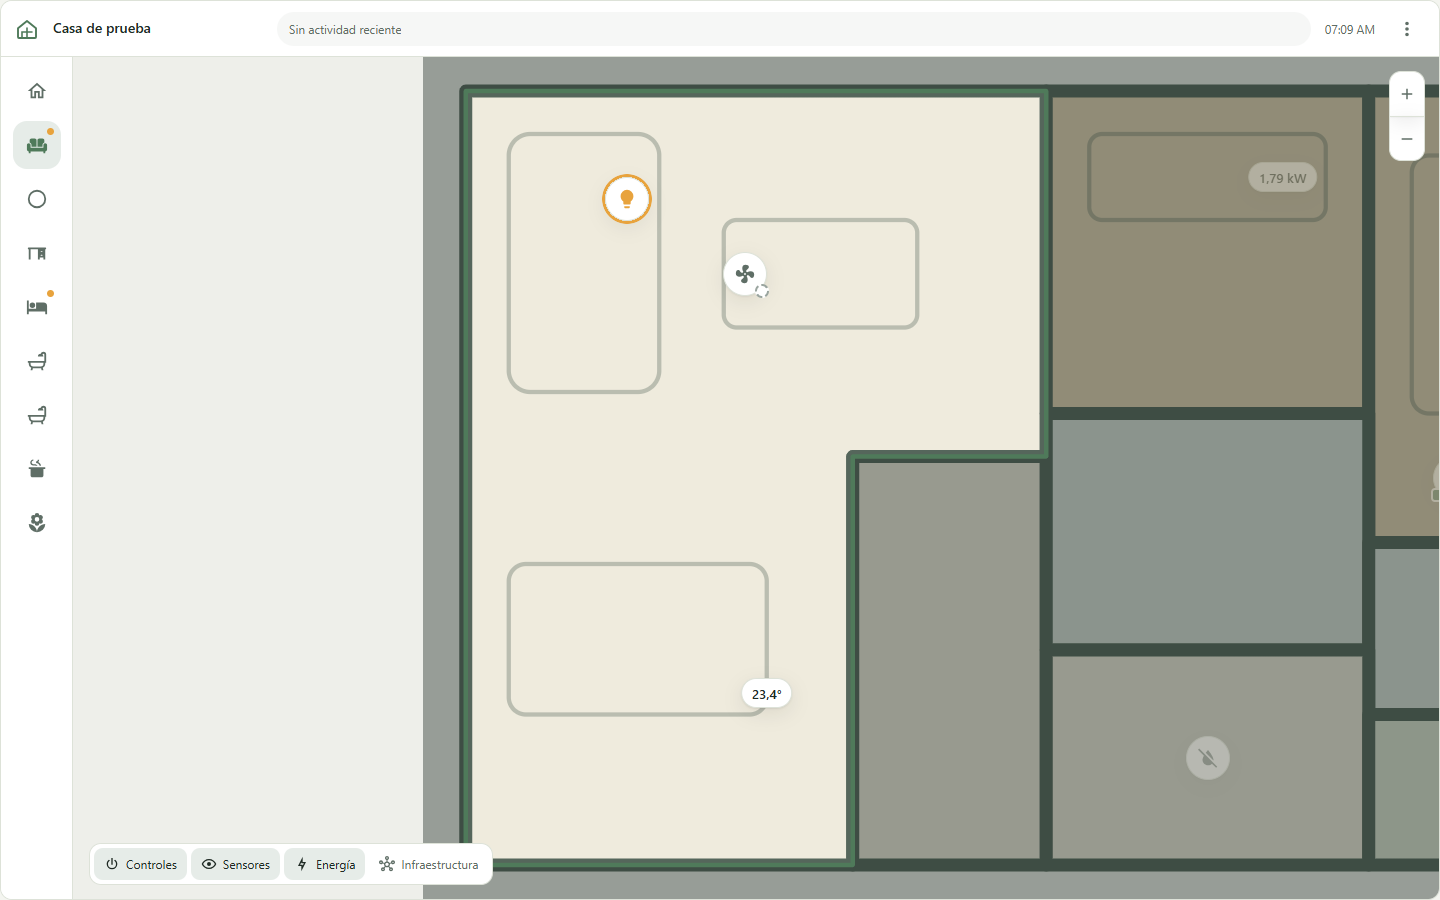
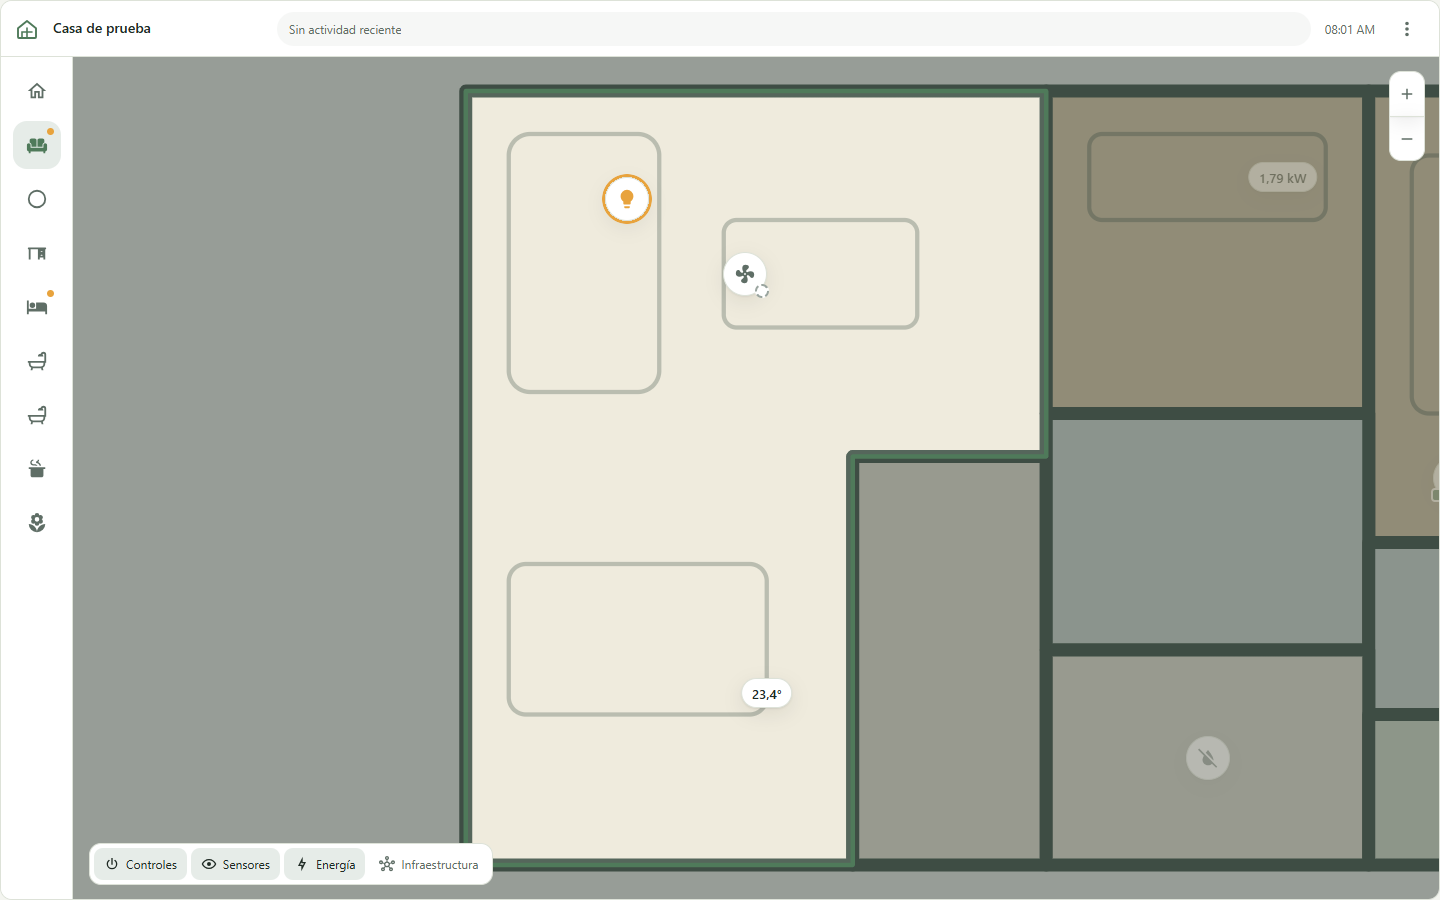
fix: never leave an emptied space without a zone after a plan review
- Revisar cambios computes each orphan's default from the devices it keeps
  after the checked moves: an emptied space defaults to Quitar, which is only
  enabled while nothing would be unassigned, and toggling a move updates it.
- Ajustes del plano shows rooms without a zone and zones without a room above
  the folded sections, with a Revisar shortcut.
- The rail's room dialog uses the shared icon picker; an empty icon falls back
  to the suggestion instead of failing validation.
- Choosing a room also dims the margin around the drawing; room captures and
  their reviewed hashes are refreshed.

Changed region(s): [[0.0312, 0.0622, 0.3125, 1.0]]

diff --git a/src/editor/index.ts b/src/editor/index.ts
@@ -72,7 +72,7 @@ const css = `${tokens}${pickerStyles}${iconButtonStyles}${controlsEditorStyles}
 :host([embedded]){width:372px;max-width:100%;background:var(--hm-bg);border:1px solid var(--hm-line);border-radius:18px;box-shadow:var(--hm-shadow)}.sheet-header{display:flex;align-items:center;gap:8px;margin-bottom:8px}.sheet-header h2{flex:1;margin:0;overflow-wrap:anywhere}.basic{display:grid;gap:12px}.field-title{display:flex;align-items:center;justify-content:flex-start;gap:2px;min-height:32px}.icon-field{display:flex;gap:8px;align-items:center}.icon-field ha-icon{flex:0 0 28px}.sheet-tools{display:flex;align-items:center;gap:8px;position:sticky;bottom:0;margin:12px 0 0;padding:10px 0;background:var(--hm-bg);border-top:1px solid var(--hm-line);z-index:2}.sheet-tools .spacer{flex:1}.sheet-tools .primary{padding:8px 12px}.sheet-header{position:sticky;top:-14px;background:var(--hm-bg);z-index:3}.add-menu{display:grid;gap:10px}.settings-dialog{width:min(820px,calc(100vw - 24px));max-width:calc(100vw - 24px);max-height:calc(100dvh - 32px);overflow:auto;padding:18px;border:1px solid var(--hm-line);border-radius:20px;background:var(--hm-bg);color:var(--hm-text)}.settings-dialog::backdrop{background:#10251d77}.advanced{margin-top:14px}.advanced>summary{min-height:44px;cursor:pointer;line-height:44px}.editor{overflow-wrap:anywhere}.icon-field input{min-width:0}.sheet-header .hm-icon-button{flex-shrink:0}
 
 .quick{margin:12px 0 4px;padding:12px;border-radius:14px;background:var(--hm-surface)}.quick .note{margin:6px 0 0}.plans{display:grid;gap:6px;margin-top:10px}.plans .plan{display:flex;gap:10px;align-items:center;justify-content:space-between;padding:8px 10px;border:1px solid var(--hm-line);border-radius:10px}
-:host{display:block;font:14px var(--hm-font);color:var(--primary-text-color,var(--hm-text))}*{box-sizing:border-box}[hidden]{display:none!important}button,input,select,textarea{font:inherit;color:inherit}button{cursor:pointer;background:var(--hm-bg);border:1px solid var(--hm-line);border-radius:9px;padding:9px 12px;min-height:44px}button:hover{background:var(--hm-surface-2)}button:disabled{opacity:.5;cursor:default}input,select,textarea{width:100%;min-height:44px;border:1px solid var(--hm-line);border-radius:8px;background:var(--hm-bg);padding:8px}input[type=checkbox]{width:20px;min-height:20px}textarea{font:12px ui-monospace,monospace;min-height:85px;resize:vertical}button:focus-visible,input:focus-visible,select:focus-visible,textarea:focus-visible,summary:focus-visible{outline:3px solid var(--hm-accent);outline-offset:2px}.editor{padding:14px;max-width:980px;margin:auto}h2{font-size:18px;margin:0 0 15px}h3{font-size:14px;margin:0}.toolbar{display:flex;flex-wrap:wrap;gap:8px;align-items:center}.toolbar select{flex:1;min-width:160px}.grid{display:grid;grid-template-columns:repeat(2,minmax(0,1fr));gap:10px;margin-top:12px}.field{display:flex;flex-direction:column;gap:6px;font-size:12px}.full{grid-column:1/-1}.actions{display:flex;flex-wrap:wrap;justify-content:flex-end;gap:8px;margin-top:14px}.primary{background:var(--hm-accent);color:var(--hm-on-accent);border-color:var(--hm-accent)}.danger{color:var(--hm-error)}.section{margin-top:15px;border:1px solid var(--hm-line);border-radius:10px;padding:12px}.section>summary{cursor:pointer;font-weight:600;min-height:30px;line-height:30px}.section-body{margin-top:10px}.note{font-size:12px;line-height:1.6;color:var(--hm-muted)}.pending{color:var(--hm-estimated)}.status{font-size:12px;line-height:1.6;padding:10px;margin-top:10px;background:color-mix(in srgb,var(--hm-estimated) 14%,var(--hm-bg));border-radius:9px}.status:empty{display:none}.check{display:flex;align-items:flex-start;gap:9px;font-size:12px;line-height:1.6;margin-top:10px}.controls{display:flex;flex-direction:column;gap:9px;margin-top:10px}.control-row{display:grid;grid-template-columns:1fr 1fr 1.2fr auto;gap:7px;align-items:end;padding:9px;background:var(--hm-surface);border-radius:8px}.room-row{display:grid;grid-template-columns:minmax(0,1fr) auto auto auto auto;gap:7px;align-items:end;padding:9px;background:var(--hm-surface);border-radius:8px;margin-bottom:6px}.room-row .note{align-self:center}fieldset.mode{border:1px solid var(--hm-line);border-radius:8px;margin:10px 0;padding:8px 12px}.control-row button{padding:8px}.preview{padding:12px;margin-top:12px;border:1px solid var(--hm-line);border-radius:9px;background:var(--hm-surface)}.preview ul{padding-left:20px;font-size:12px;line-height:1.7}.file{font-size:12px}.readonly{font-size:11px;color:var(--hm-muted)}.sr{position:absolute;width:1px;height:1px;overflow:hidden;clip:rect(0,0,0,0)}@media(max-width:580px){.editor{padding:10px}.grid{grid-template-columns:1fr}.full{grid-column:auto}.control-row{grid-template-columns:1fr 1fr}.room-row{grid-template-columns:1fr auto auto auto}.room-row .note{grid-column:1/-1}.control-row label:nth-child(3){grid-column:1/-1}.control-row button{grid-column:2;justify-self:end}.toolbar button{flex:1}.actions button{flex:1}.section{padding:10px}}`;
+:host{display:block;font:14px var(--hm-font);color:var(--primary-text-color,var(--hm-text))}*{box-sizing:border-box}[hidden]{display:none!important}button,input,select,textarea{font:inherit;color:inherit}button{cursor:pointer;background:var(--hm-bg);border:1px solid var(--hm-line);border-radius:9px;padding:9px 12px;min-height:44px}button:hover{background:var(--hm-surface-2)}button:disabled{opacity:.5;cursor:default}input,select,textarea{width:100%;min-height:44px;border:1px solid var(--hm-line);border-radius:8px;background:var(--hm-bg);padding:8px}input[type=checkbox]{width:20px;min-height:20px}textarea{font:12px ui-monospace,monospace;min-height:85px;resize:vertical}button:focus-visible,input:focus-visible,select:focus-visible,textarea:focus-visible,summary:focus-visible{outline:3px solid var(--hm-accent);outline-offset:2px}.editor{padding:14px;max-width:980px;margin:auto}h2{font-size:18px;margin:0 0 15px}h3{font-size:14px;margin:0}.toolbar{display:flex;flex-wrap:wrap;gap:8px;align-items:center}.toolbar select{flex:1;min-width:160px}.grid{display:grid;grid-template-columns:repeat(2,minmax(0,1fr));gap:10px;margin-top:12px}.field{display:flex;flex-direction:column;gap:6px;font-size:12px}.full{grid-column:1/-1}.actions{display:flex;flex-wrap:wrap;justify-content:flex-end;gap:8px;margin-top:14px}.primary{background:var(--hm-accent);color:var(--hm-on-accent);border-color:var(--hm-accent)}.danger{color:var(--hm-error)}.section{margin-top:15px;border:1px solid var(--hm-line);border-radius:10px;padding:12px}.section>summary{cursor:pointer;font-weight:600;min-height:30px;line-height:30px}.section-body{margin-top:10px}.note{font-size:12px;line-height:1.6;color:var(--hm-muted)}.pending{color:var(--hm-estimated)}.plan-conflicts{display:flex;align-items:center;justify-content:space-between;gap:10px;padding:8px 12px;border:1px solid color-mix(in srgb,var(--hm-estimated) 45%,var(--hm-line));border-radius:10px}.status{font-size:12px;line-height:1.6;padding:10px;margin-top:10px;background:color-mix(in srgb,var(--hm-estimated) 14%,var(--hm-bg));border-radius:9px}.status:empty{display:none}.check{display:flex;align-items:flex-start;gap:9px;font-size:12px;line-height:1.6;margin-top:10px}.controls{display:flex;flex-direction:column;gap:9px;margin-top:10px}.control-row{display:grid;grid-template-columns:1fr 1fr 1.2fr auto;gap:7px;align-items:end;padding:9px;background:var(--hm-surface);border-radius:8px}.room-row{display:grid;grid-template-columns:minmax(0,1fr) auto auto auto auto;gap:7px;align-items:end;padding:9px;background:var(--hm-surface);border-radius:8px;margin-bottom:6px}.room-row .note{align-self:center}fieldset.mode{border:1px solid var(--hm-line);border-radius:8px;margin:10px 0;padding:8px 12px}.control-row button{padding:8px}.preview{padding:12px;margin-top:12px;border:1px solid var(--hm-line);border-radius:9px;background:var(--hm-surface)}.preview ul{padding-left:20px;font-size:12px;line-height:1.7}.file{font-size:12px}.readonly{font-size:11px;color:var(--hm-muted)}.sr{position:absolute;width:1px;height:1px;overflow:hidden;clip:rect(0,0,0,0)}@media(max-width:580px){.editor{padding:10px}.grid{grid-template-columns:1fr}.full{grid-column:auto}.control-row{grid-template-columns:1fr 1fr}.room-row{grid-template-columns:1fr auto auto auto}.room-row .note{grid-column:1/-1}.control-row label:nth-child(3){grid-column:1/-1}.control-row button{grid-column:2;justify-self:end}.toolbar button{flex:1}.actions button{flex:1}.section{padding:10px}}`;
 const option = (value: string, text: string, selected: string) =>
   `<option value="${esc(value)}"${value === selected ? ' selected' : ''}>${esc(text)}</option>`;
 const input = (name: string, label: string, value: unknown, extra = '') =>
@@ -375,7 +375,12 @@ export class HomeManagerEditor extends HTMLElement {
   }
   private settingsForm(): string {
     const pending = pendingReferences(this.configuration, this._hass?.states);
-    return `${this.section('rooms-section', t('Espacios ({count})', { count: this.configuration.rooms.length }), this.roomsForm())}
+    // Conflicts with the plan are surfaced above the folded sections, where they cannot be missed.
+    const zoneIds = new Set(this.zones().map(zone => zone.id));
+    const zoneless = this.configuration.rooms.filter(room => !zoneIds.has(room.id)).length;
+    const unclaimed = [...zoneIds].filter(id => !this.configuration.rooms.some(room => room.id === id)).length;
+    const conflicts = zoneIds.size && (zoneless || unclaimed);
+    return `${conflicts ? `<div class="plan-conflicts note pending"><span>${esc(t('{rooms} espacios sin zona y {zones} zonas sin espacio', { rooms: zoneless, zones: unclaimed }))}</span><button type="button" data-command="review-spaces">${esc(t('Revisar'))}</button></div>` : ''}${this.section('rooms-section', t('Espacios ({count})', { count: this.configuration.rooms.length }), this.roomsForm())}
       ${this.section('actions-section', t('Acciones lógicas'), this.actionForm())}
       ${this.section('panels-section', t('Paneles nativos'), this.panelForm())}
       ${this.section('pending-section', t('Referencias pendientes ({count})', { count: pending.length }), pending.length ? `<ul class="note pending">${pending.map(text => `<li>${esc(text)}</li>`).join('')}</ul>` : `<p class="note">${esc(t('No hay referencias pendientes.'))}</p>`)}

diff --git a/src/editor/plan-review.ts b/src/editor/plan-review.ts
@@ -55,6 +55,13 @@ export function openPlanReview(
     ...candidate.rooms.filter(room => !report.orphans.some(orphan => orphan.roomId === room.id)),
     ...report.newZones,
   ];
+  // Devices an orphan still holds once the checked moves are applied. A space
+  // emptied by individual moves is removed by default instead of kept without a zone.
+  const remaining = (orphan: PlanImportReport['orphans'][number], moved: (id: string) => boolean) =>
+    orphan.devices.filter(id => !moved(id));
+  const movedByDefault = (id: string) => report.moves.some(move => move.deviceId === id);
+  const defaultAction = (orphan: PlanImportReport['orphans'][number], left: number) =>
+    orphan.suggestion ? `merge:${orphan.suggestion}` : left ? 'keep' : 'remove';
   const positions = candidate.catalog.devices.filter(device => {
     const previous = before?.catalog.devices.find(item => item.id === device.id);
     return previous && JSON.stringify(previous.position) !== JSON.stringify(device.position);
@@ -65,18 +72,18 @@ export function openPlanReview(
   ${
     report.orphans.length
       ? `<h3>${e(t('Espacios sin zona'))}</h3>${report.orphans
-          .map(
-            orphan =>
-              `<div class="review-row"><strong>${e(orphan.label)}</strong><p>${orphan.devices.map(id => e(label(id))).join(', ') || e(t('Sin dispositivos'))}</p><label>${e(t('Resolver espacio'))}<select data-orphan="${e(orphan.roomId)}" aria-label="${e(t('Resolver {room}', { room: orphan.label }))}">${targets
-                .filter(room => room.id !== orphan.roomId)
-                .map(
-                  room =>
-                    `<option value="merge:${e(room.id)}"${orphan.suggestion === room.id ? ' selected' : ''}>${e(t('Fusionar en {room}', { room: room.label }))}</option>`,
-                )
-                .join(
-                  '',
-                )}<option value="keep"${!orphan.suggestion && orphan.devices.length ? ' selected' : ''}>${e(t('Conservar sin zona'))}</option>${!orphan.devices.length ? `<option value="remove" selected>${e(t('Quitar'))}</option>` : ''}</select></label></div>`,
-          )
+          .map(orphan => {
+            const left = remaining(orphan, movedByDefault).length;
+            const chosen = defaultAction(orphan, left);
+            const option = (value: string, text: string, disabled = false) =>
+              `<option value="${e(value)}"${chosen === value ? ' selected' : ''}${disabled ? ' disabled' : ''}>${e(text)}</option>`;
+            return `<div class="review-row"><strong>${e(orphan.label)}</strong><p>${orphan.devices.map(id => e(label(id))).join(', ') || e(t('Sin dispositivos'))}</p><label>${e(t('Resolver espacio'))}<select data-orphan="${e(orphan.roomId)}" aria-label="${e(t('Resolver {room}', { room: orphan.label }))}">${targets
+              .filter(room => room.id !== orphan.roomId)
+              .map(room => option(`merge:${room.id}`, t('Fusionar en {room}', { room: room.label })))
+              .join(
+                '',
+              )}${option('keep', t('Conservar sin zona'))}${option('remove', t('Quitar'), left > 0)}</select></label></div>`;
+          })
           .join('')}`
       : ''
   }
@@ -100,12 +107,26 @@ export function openPlanReview(
     apply(structuredClone(candidate), true);
   });
   // Unchecking an individual move visibly cancels its room-wide default merge.
+  // Every toggle recomputes which orphans are left empty, so Quitar is offered
+  // exactly when nothing would be unassigned, and chosen unless the user picked.
+  const touched = new Set<string>();
+  const moved = (id: string) => !!dialog.querySelector<HTMLInputElement>(`[data-move="${CSS.escape(id)}"]`)?.checked;
   dialog.addEventListener('change', event => {
     const input = event.target as HTMLInputElement;
-    if (input.dataset.move && !input.checked) {
-      const move = report.moves.find(item => item.deviceId === input.dataset.move);
-      const select = dialog.querySelector<HTMLSelectElement>(`[data-orphan="${CSS.escape(move?.from ?? '')}"]`);
-      if (select) select.value = 'keep';
+    if (input.dataset.orphan) {
+      touched.add(input.dataset.orphan);
+      return;
+    }
+    if (!input.dataset.move) return;
+    const move = report.moves.find(item => item.deviceId === input.dataset.move);
+    for (const orphan of report.orphans) {
+      const select = dialog.querySelector<HTMLSelectElement>(`[data-orphan="${CSS.escape(orphan.roomId)}"]`)!;
+      const left = remaining(orphan, moved).length;
+      select.querySelector<HTMLOptionElement>('option[value=remove]')!.disabled = left > 0;
+      if (!input.checked && orphan.roomId === move?.from && select.value.startsWith('merge:')) select.value = 'keep';
+      else if (!touched.has(orphan.roomId) && !select.value.startsWith('merge:'))
+        select.value = left ? 'keep' : 'remove';
+      if (select.value === 'remove' && left) select.value = 'keep';
     }
   });
   dialog.querySelector('[data-review=apply]')!.addEventListener('click', () => {
@@ -122,8 +143,11 @@ export function openPlanReview(
         }
       for (const orphan of report.orphans) {
         const action = dialog.querySelector<HTMLSelectElement>(`[data-orphan="${CSS.escape(orphan.roomId)}"]`)!.value;
-        if (action === 'remove') next = mergeRoom(next, orphan.roomId, null);
-        else if (action.startsWith('merge:')) {
+        if (action === 'remove') {
+          if (next.catalog.devices.some(device => device.roomId === orphan.roomId))
+            throw new Error(t('Elegí fusionar los dispositivos o dejarlos sin espacio.'));
+          next = mergeRoom(next, orphan.roomId, null);
+        } else if (action.startsWith('merge:')) {
           const target = action.slice(6);
           if (!next.rooms.some(room => room.id === target))
             throw new Error(t('Agregá el espacio de destino o elegí Conservar sin zona.'));

diff --git a/src/editor/room-actions.ts b/src/editor/room-actions.ts
@@ -3,6 +3,7 @@ import { escapeHTML as e, type Configuration } from '../card/types.js';
 import { mergeRoom } from '../model/plan-import.js';
 import { suggestedRoomIcon } from '../model/archetype.js';
 import { upsertRoom } from './model.js';
+import { iconPicker } from '../ui/icon-picker.js';
 
 export function openRoomActions(
   root: ShadowRoot,
@@ -18,7 +19,7 @@ export function openRoomActions(
   dialog.className = 'room-actions';
   dialog.style.cssText =
     'width:480px;max-width:calc(100vw - 24px);max-height:calc(100dvh - 24px);overflow:auto;padding:20px;border:1px solid var(--hm-line);border-radius:12px;background:var(--hm-surface);color:var(--hm-ink)';
-  dialog.innerHTML = `<h2 id="room-actions-title">${e(room.label)}</h2><label>${e(t('Renombrar'))}<input name="room-name" aria-label="${e(t('Nombre del espacio'))}" value="${e(room.label)}" maxlength="240"></label><label>${e(t('Icono'))}<input name="room-icon" aria-label="${e(t('Icono del espacio'))}" value="${e(room.icon ?? suggestedRoomIcon(room.label))}"></label><p>${e(t('{count} dispositivos', { count }))}</p><label>${e(t('Fusionar en…'))}<select name="merge-room" aria-label="${e(t('Fusionar en…'))}"><option value="">${e(t('Conservar espacio'))}</option>${others.map(item => `<option value="${e(item.id)}">${e(item.label)}</option>`).join('')}</select></label><button type="button" data-room-action="merge">${e(t('Fusionar'))}</button>${count ? `<label>${e(t('Al quitar este espacio'))}<select name="remove-room" aria-label="${e(t('Al quitar este espacio'))}"><option value="keep">${e(t('Conservar espacio'))}</option><option value="unassign">${e(t('Dejarlos sin espacio'))}</option>${others.map(item => `<option value="${e(item.id)}">${e(t('Fusionar en {room}', { room: item.label }))}</option>`).join('')}</select></label>` : ''}<p class="room-error" role="alert" style="color:var(--hm-alert)"></p><div class="actions"><button type="button" data-room-action="cancel">${e(t('Cancelar'))}</button><button type="button" data-room-action="remove">${e(t('Quitar'))}</button><button type="button" data-room-action="apply">${e(t('Aplicar'))}</button></div>`;
+  dialog.innerHTML = `<h2 id="room-actions-title">${e(room.label)}</h2><label>${e(t('Renombrar'))}<input name="room-name" aria-label="${e(t('Nombre del espacio'))}" value="${e(room.label)}" maxlength="240"></label><div class="field"><span>${e(t('Icono'))}</span>${iconPicker(room.icon ?? suggestedRoomIcon(room.label), t('Icono del espacio'), 'data-room-icon')}</div><p>${e(t('{count} dispositivos', { count }))}</p><label>${e(t('Fusionar en…'))}<select name="merge-room" aria-label="${e(t('Fusionar en…'))}"><option value="">${e(t('Conservar espacio'))}</option>${others.map(item => `<option value="${e(item.id)}">${e(item.label)}</option>`).join('')}</select></label><button type="button" data-room-action="merge">${e(t('Fusionar'))}</button>${count ? `<label>${e(t('Al quitar este espacio'))}<select name="remove-room" aria-label="${e(t('Al quitar este espacio'))}"><option value="keep">${e(t('Conservar espacio'))}</option><option value="unassign">${e(t('Dejarlos sin espacio'))}</option>${others.map(item => `<option value="${e(item.id)}">${e(t('Fusionar en {room}', { room: item.label }))}</option>`).join('')}</select></label>` : ''}<p class="room-error" role="alert" style="color:var(--hm-alert)"></p><div class="actions"><button type="button" data-room-action="cancel">${e(t('Cancelar'))}</button><button type="button" data-room-action="remove">${e(t('Quitar'))}</button><button type="button" data-room-action="apply">${e(t('Aplicar'))}</button></div>`;
   dialog.setAttribute('aria-labelledby', 'room-actions-title');
   const previous = root.activeElement as HTMLElement | null;
   dialog.addEventListener(
@@ -44,7 +45,10 @@ export function openRoomActions(
           {
             ...room,
             label: dialog.querySelector<HTMLInputElement>('[name=room-name]')!.value,
-            icon: dialog.querySelector<HTMLInputElement>('[name=room-icon]')!.value,
+            // An emptied picker falls back to the suggestion instead of failing validation.
+            icon:
+              (dialog.querySelector<HTMLElement & { value?: string }>('[data-room-icon]')?.value ?? '').trim() ||
+              suggestedRoomIcon(dialog.querySelector<HTMLInputElement>('[name=room-name]')!.value),
           },
           { previousId: id },
         );

diff --git a/src/card/geometry.ts b/src/card/geometry.ts
@@ -770,12 +770,18 @@ export function createRoomHighlight(svg: SVGSVGElement, roomId: RoomId): SVGSVGE
   mask.setAttribute('maskUnits', 'userSpaceOnUse');
   mask.setAttribute('maskContentUnits', 'userSpaceOnUse');
   mask.style.maskType = 'luminance';
-  for (const [name, value] of Object.entries({ x: box.x, y: box.y, width: box.width, height: box.height }))
-    mask.setAttribute(name, String(value));
+  // The shade reaches well past the viewBox so the margin around the drawing is
+  // dimmed too; the overlay does not clip, the card viewport does.
+  const shaded = {
+    x: box.x - 4 * box.width,
+    y: box.y - 4 * box.height,
+    width: 9 * box.width,
+    height: 9 * box.height,
+  };
+  for (const [name, value] of Object.entries(shaded)) mask.setAttribute(name, String(value));
   const rect = (fill: string) => {
     const element = document.createElementNS(SVG_NS, 'rect');
-    for (const [name, value] of Object.entries({ x: box.x, y: box.y, width: box.width, height: box.height }))
-      element.setAttribute(name, String(value));
+    for (const [name, value] of Object.entries(shaded)) element.setAttribute(name, String(value));
     element.setAttribute('fill', fill);
     return element;
   };

diff --git a/src/i18n/en-shell.ts b/src/i18n/en-shell.ts
@@ -4,6 +4,9 @@ export const enShell: Record<string, string> = {
     'Only the plan was imported. Room assignments were preserved; review the remaining conflicts.',
   'Cambios aplicados al borrador. Guardá para persistirlos.': 'Changes applied to the draft. Save to persist them.',
   'Revisar espacios con el plano': 'Review rooms against the plan',
+  '{rooms} espacios sin zona y {zones} zonas sin espacio':
+    '{rooms} rooms without a zone and {zones} zones without a room',
+  Revisar: 'Review',
   'Sin espacio': 'No room',
   'Revisar cambios': 'Review changes',
   'Revisá los cambios antes de aplicarlos al borrador. Guardar los persiste; Deshacer devuelve todo.':
